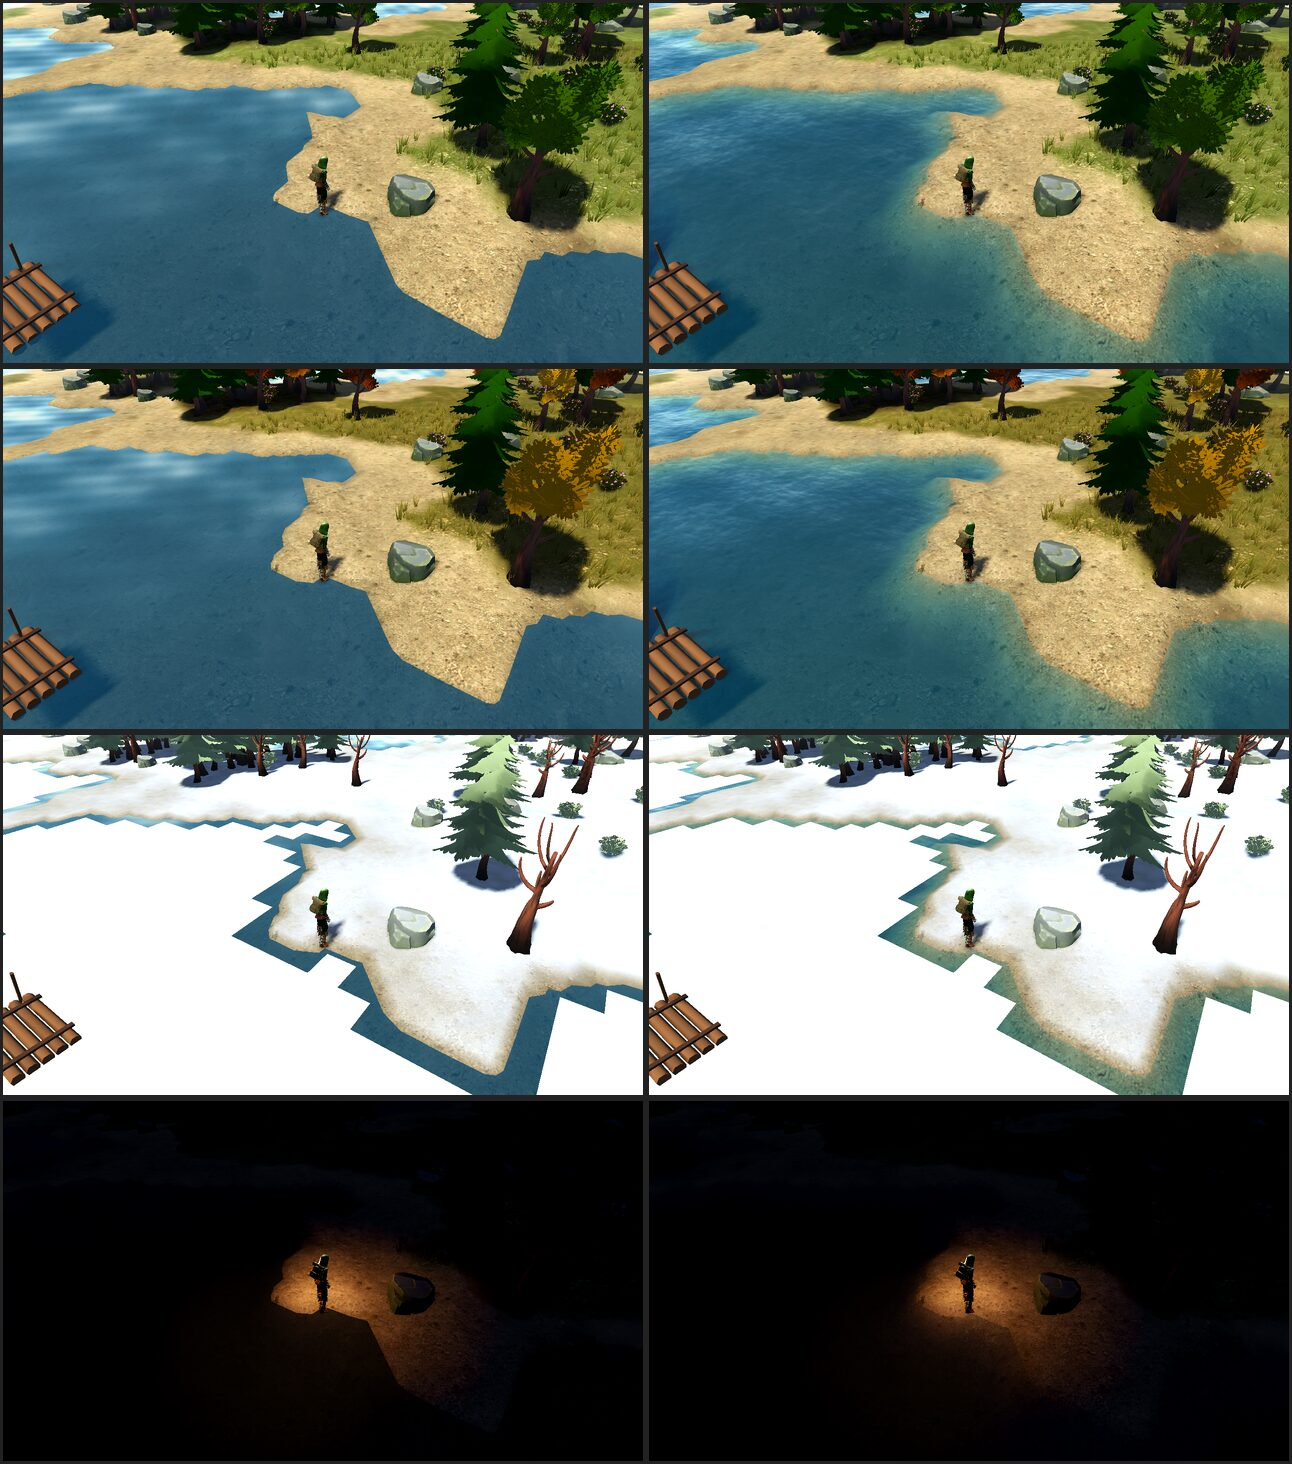
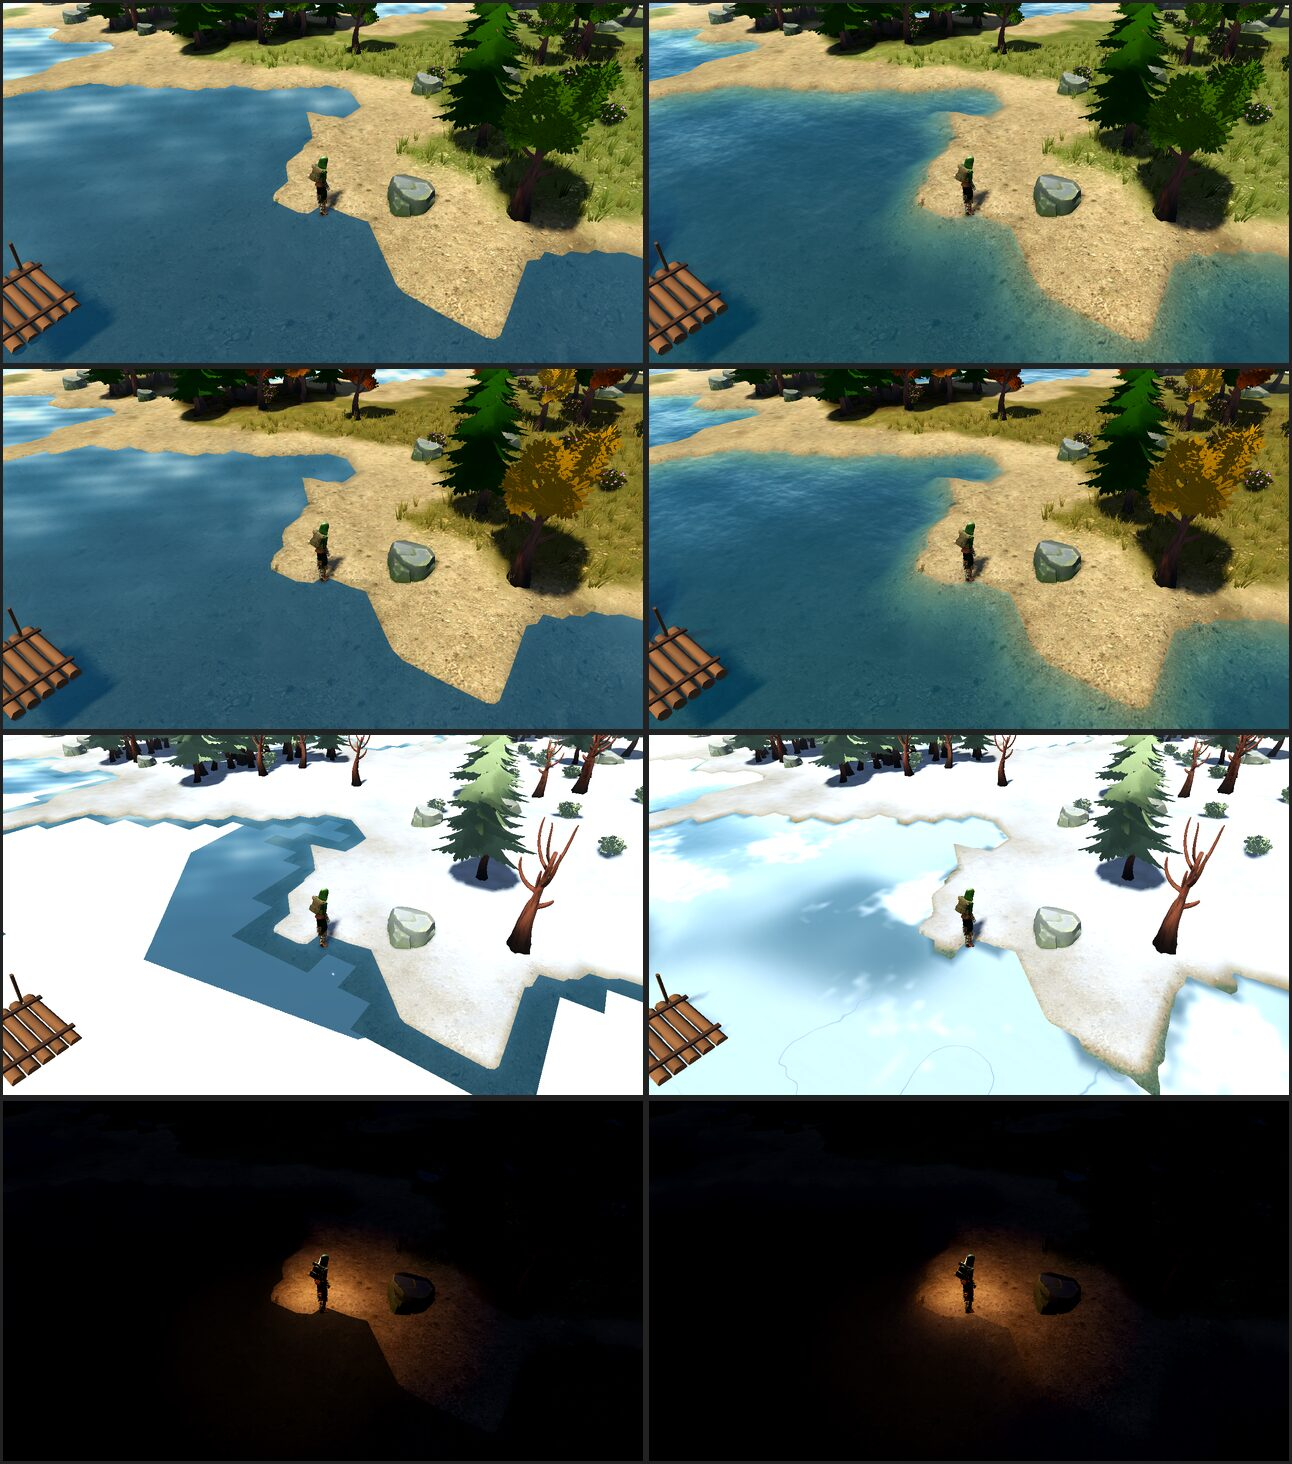
Phase 5B.1: winter ice without square tiles
The winter ice was one flat square per frozen tile, with stepped edges,
strips of water at the shore and the water's swell showing through. It is
now a grid that reaches under the shore (the ground cuts it off along the
real shoreline) and fades towards open deep water by the share of deep
tiles around each corner, drawn with a new ice shader (alpha-scissor
ragged edge, pale and clear ice, snow drifts, faint cracks). The ice
writes depth, so the water above it fades out. Only the look: walking and
sailing still follow the frozen tiles. ?water=0 keeps the old ice. Adds a
smoke check, a WINTER=1 mode for water_shots.gd, the ice sheet and report.

Claude-Session: https://claude.ai/code/session_01MPQsoYU4m9GjPH9jr69ReG

diff --git a/last-light/GRAPHICS_PHASE_5B1_WATER_SURFACE.md b/last-light/GRAPHICS_PHASE_5B1_WATER_SURFACE.md
@@ -25,7 +25,7 @@ What it costs:
 | Seabed | A flat, dark 640 m plane at −3.05 m under the open sea, where no terrain is built. Elsewhere the seabed is the terrain itself, textured since 5A and darkened when wet. |
 | Shader | `water.gdshader`: alpha-blended, with a vertex swell of ±0.1 m (two sines). There are three sine ripples for the normal and a fixed colour (shallow and deep mixed 60%) blended towards a sky tint by Fresnel. Alpha is 0.76–0.95, roughness 0.06 and specular 0.7. It has **no depth awareness**: the same colour everywhere, and a hard edge where it meets the shore. |
 | Animation | Vertex swell plus moving normal sines. |
-| Ice | In winter, each chunk's shallow-water tiles get an ice mesh (`_build_ice`, `StandardMaterial3D`) at y = 0.04. Ice is gameplay: you can walk on it and boats can't sail on it. **Untouched.** |
+| Ice | In winter, each chunk's shallow-water tiles got an ice mesh (`_build_ice`, `StandardMaterial3D`): **one flat square per frozen tile** at y = 0.04. Where you can walk on ice and where boats can't sail is decided by the frozen tiles (`is_ice`, `is_sailable`, `to_3d`), not by the mesh, and that is **untouched**. The ice's **look** was restyled on request after review (§2b). |
 | Boats | `boat.gd` places boats at `WATER_LEVEL` with their own bob, independent of the shader. Sailing uses `is_sailable` (terrain type and season). **Untouched.** |
 | Collision / navigation | Tile-based: `is_walkable` and `is_sailable` read terrain types, not meshes. **Untouched.** |
 | Cost | One draw call for the water and one for the seabed. Alpha blending over the whole visible water. |
@@ -78,8 +78,30 @@ The original shader is kept as it was. The new one is used by default.
 | `game/tools/smoke_test.gd` | Phase 5B.1 checks (§6). |
 | `perf/water/*` | Screenshots and browser benchmark JSON. |
 
+### 2b. Winter ice without square tiles (added after review)
+
+The original ice was one flat square per frozen tile. That showed three problems in winter (`perf/water/ice.jpg`, left):
+- **stepped, square edges** everywhere;
+- **dark-blue strips** of water between the ice squares and the shore;
+- **blue blotches** where the water's swell (up to +0.1 m) rose through the ice sheet at +0.04 m.
+
+The ice is now drawn differently, with `?water=0` still showing the old ice. Only the look changed: walking on the ice, boats stopping at it, and where it is for gameplay are still the frozen tiles.
+
+- **`world.gd` `_build_ice_smooth`** (used when `water_detail` is on) builds each chunk's ice as a grid:
+  - **At the shore:** it also reaches over the land tiles beside frozen water, and over low ground under the ice level near it. So the terrain cuts the ice off along the real, smooth shoreline, with no water strips.
+  - **Towards open deep water:** each grid corner carries how much ice is there: the share of non-deep tiles among the 4×4 tiles around it. The edge against unfrozen water is therefore a smooth curve instead of tile steps.
+  - It reads the chunk's terrain types once into a small array.
+- **`shaders/ice.gdshader`** (new):
+  - **Edge:** alpha-scissor, so the ice stays solid and writes depth. It cuts a ragged, noise-broken edge where the ice fades towards open water.
+  - **Look:** pale grey-blue ice with clearer, darker patches, drifts of powder snow, faint thin cracks here and there (fading by 45 m), and gentle unevenness from the ripple map. Roughness is 0.22 on ice and 0.85 on snow.
+  - **Because the ice writes depth,** the new water shader reads the water above it as zero depth and fades out. The swell no longer shows through the ice, and open water meets the ice edge with the same soft lap as a shore.
+- **Cost:**
+  - **Ice triangles:** 9,118 → 13,518 (+48%) for the 53 chunks around a frozen lake. The extra quads are the shore fringe, mostly hidden under the ground.
+  - **Build time:** building all their ice went from 55 to 119 ms in total, about 1 ms more per chunk. That's spread over chunk builds, a few per frame, and only in chunks with frozen water.
+  - **Draw calls:** unchanged, one per chunk with ice.
+
 **Not touched:**
-- water, boat and ice physics;
+- water, boat and ice physics (where the ice is for walking and sailing);
 - `is_walkable` and `is_sailable`;
 - water level and placement;
 - world generation;
@@ -102,6 +124,7 @@ These are in `perf/water/`, with the **original on the left and the upgrade on t
 | `close.jpg` | Low over the water: small channel, large channel, lake, beach, water by the village, boats off the beach |
 | `zoom-near.jpg` / `zoom-normal.jpg` / `zoom-max.jpg` | Same six places from the game camera at zoom 0.55 / 1.0 / 3.2 |
 | `seasons-light.jpg` | The beach in summer, autumn, winter (ice) and at night by torchlight |
+| `ice.jpg` | Winter: the beach, lake and small channel at zoom 1.0, the large channel at 3.2, and the beach from low down: square tiles → smooth ice |
 | `browser.jpg` | The final benchmark frame in Chromium (WebGL 2, ANGLE), old and new: the depth effects work in the browser |
 
 The places come from the seed's own map; the island has no rivers, see §1:
@@ -126,7 +149,7 @@ The places come from the seed's own map; the island has no rivers, see §1:
   - The 5A wet-shore darkening and the textured seabed stay visible through the shallows.
   - Checked against sand, grass, forest and rock shores in the shots.
 - **Summer and autumn:** the water has no seasonal tint, as before. Autumn leaves fall as before.
-- **Winter:** the gameplay ice sheet is unchanged. The thin strips of unfrozen water between ice tiles and the shore now read as pale shallows, where they used to be dark blue bands.
+- **Winter:** the ice now meets the shore along the ground's own contour. The edge against open deep water is a ragged curve, with no squares, water strips or swell showing through (§2b, `ice.jpg`). A few small steps remain where the terrain's own shoreline is stepped; that's terrain geometry, which this phase doesn't change.
 - **Night:** the water is lit by the scene as before. By torchlight the shallows show the seabed.
 - **Weather and lighting:** the game has seasonal particles (snow, leaves) and a day/night clock. There is no rain or storm system, and nothing else changes.
 - **Not checked:** a low-sun "evening" frame came out fully dark at that clock time in both versions, so it was left out.
@@ -137,11 +160,12 @@ The places come from the seed's own map; the island has no rivers, see §1:
 
 | Run | Result |
 |---|---|
-| Default (upgraded water) | **327 ok, 0 FAIL — "Smoke test passed."** |
-| `--water=0` | **327 ok, 0 FAIL — passed** |
+| Default (upgraded water) | **328 ok, 0 FAIL — "Smoke test passed."** |
+| `--water=0` | **328 ok, 0 FAIL — passed** |
 
 New checks:
 - **Shader in use:** the upgraded run uses `water_detail.gdshader` with its ripple map, and `--water=0` uses `water.gdshader`.
+- **Ice material:** the upgraded run's winter ice uses `ice.gdshader`, and `--water=0` keeps the original ice material.
 - **Water sheet unchanged:** the water plane (640 m, 96×96), its level, the seabed level, no shadow, and the **identical swell line in both shaders**.
 - **Walking and sailing unchanged:** terrain type, `is_walkable`, `is_sailable` (raft and galley) and height over a 320 m area around spawn give the **same hash in both runs: `3082881264`**. The Phase 5A terrain mesh hash is unchanged too: `1279805263`.
 
@@ -226,14 +250,17 @@ The default scenes, with water mostly off screen, behave as before within noise:
 3. **No real reflections.** Trees, ships and the sky aren't mirrored; the sky sheen is a flat colour. This was ruled out by the brief: no expensive reflection systems.
 4. **No flow.** Ripples drift the same way everywhere. The island has no rivers or flow data, so channels don't "run" in one direction.
 5. **Transparent objects behind water aren't in the depth copy.** Nothing transparent sits under the water today.
-6. **The winter ice is unchanged.** It is still the tile-shaped ice sheet; restyling it is gameplay-adjacent and was left for later.
+6. **Ice:**
+   - **Not exactly the gameplay tiles.** The smooth ice is drawn a little differently from the frozen tiles. Near open deep water, the last frozen tile can look like open water at the ragged edge (and the reverse), by up to about one tile. Walking still follows the tiles.
+   - **Stepped shores remain stepped.** Where the terrain's shoreline is itself stepped, the ice edge follows it.
+   - **Benchmark:** the web benchmark was run before the ice change; the ice's cost was measured natively (§2b).
 7. **Very low sun wasn't checked.** The day/night clock has no visible low-sun frame at the tested time.
 8. **Software-renderer numbers only.** No real-GPU measurement was possible here.
 
 ## 9. Recommendations for Phase 5B.2
 
 1. **Real-GPU check:** run `?bench=1&waterbench=1` with and without `&water=0` on an integrated GPU (Intel UHD / Apple M1) and on a phone. If the depth copy hurts, a quality setting could fall back to `water.gdshader`.
-2. **Ice:** soften the tile edges of the winter ice sheet in its material only, with depth-faded edges and frost texture, keeping the ice mesh and its gameplay.
+2. **Ice:** if the one-tile difference at the deep-water edge matters for play, make the walkable edge match the drawn edge, or draw a crack line on the last walkable tile. Also add a winter scene to `?waterbench=1`.
 3. **Shore foam on the open sea:** stronger, wave-timed foam only where the shore faces open `DEEP` water (beaches), not on lakes.
 4. **Water near boats:** a small wake behind a moving boat, as a decal or particles following the boat, with no physics change.
 5. **Reflections, cheaply:** a fixed sky colour gradient or a low-resolution baked sky cubemap for the sheen, still with no real-time reflection pass.
